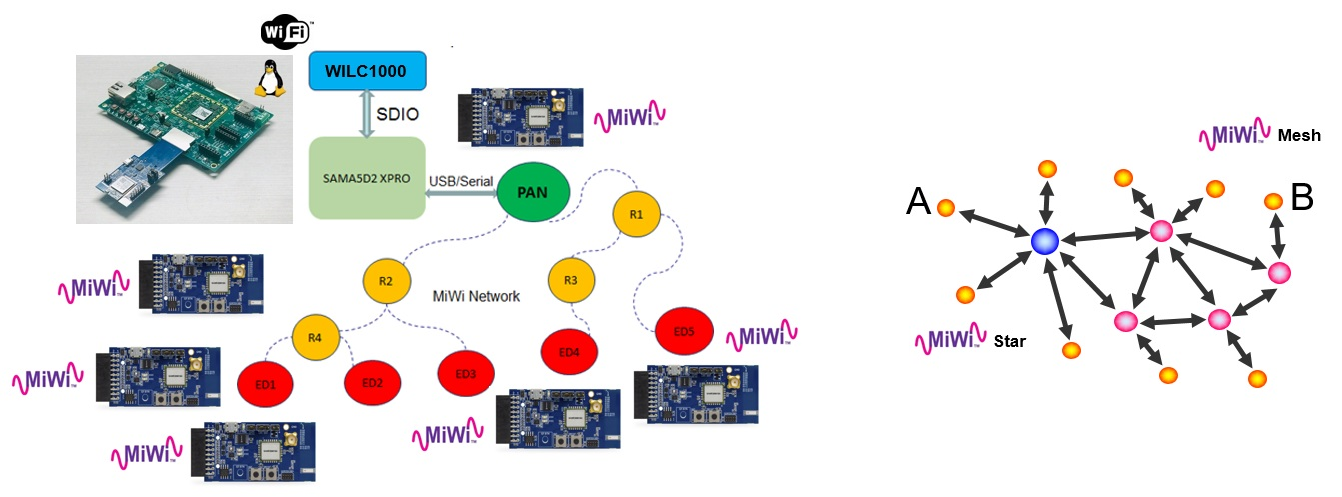
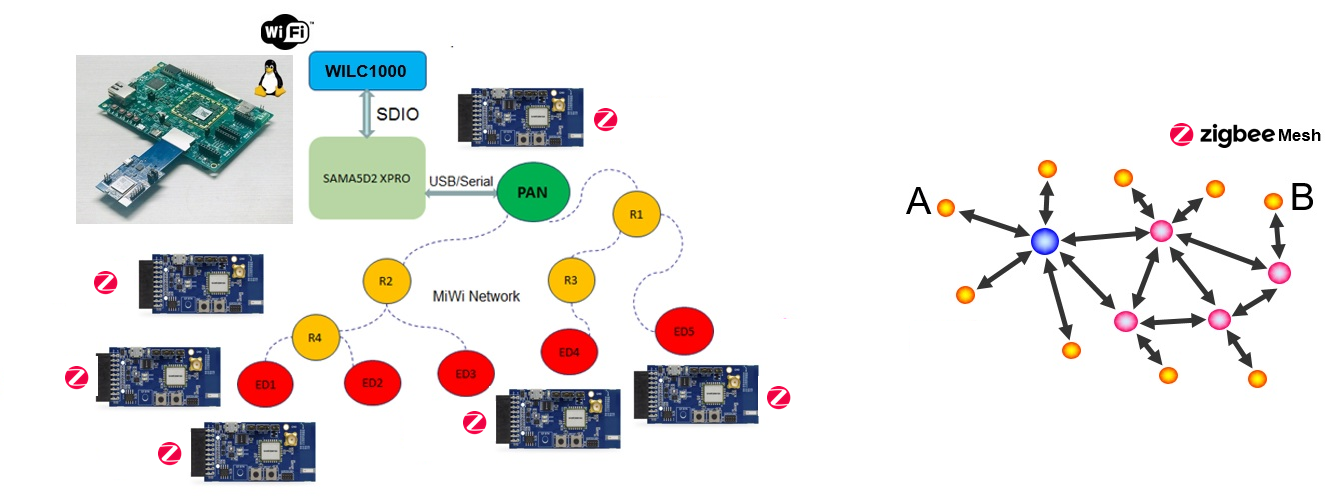
update to aiot_for_industry4.0

diff --git a/README.md b/README.md
@@ -1,4 +1,4 @@
-# iot_solutions_for_industry_4.0
+# aiot_solutions_for_industry_4.0
 <img src="Doc/IoT-Made-Easy-Logo.png" width=100>
 
 > “Wireless Made Fun!" - IoT Solutions for Industry 4.0
@@ -12,14 +12,14 @@
 		1. [Linux](#step2d1)
 		1. [Security](#step2d2)
 		1. [Wi-Fi](#step2d3)
-		1. [Sub GHz Network](#step2d4)
+		1. [Zigbee Network](#step2d4)
 1. [Do It Yourself](#step3)
 	1. [Bill of materials](#step3a)
 	1. [Step by step guide](#step3b)
 	1. [Hardware](#step3c)
 	1. [Software](#step3d)
 		1. [Linux Python Application](#step3d1)
-		1. [MiWi Mesh Application](#step3d2)
+		1. [Zigbee Mesh Application](#step3d2)
 		1. [AWS Web Application](#step3d3)
 
 ## Facts and challenges of Industry 4.0 <a name="step1"></a>
@@ -34,7 +34,7 @@ But here come 2 challenges for developers building Industry 4.0 products:</br>
 <img src="Doc/industry40.png" alt="drawing" width="480"/>
 </br>
 
-## Our solution : "IoT Solutions for Industry 4.0" <a name="step2"></a>
+## Our solution : "AIoT Solutions for Industry 4.0" <a name="step2"></a>
 
 ![](Doc/demo_00.png)</br>
 
@@ -58,13 +58,13 @@ The automation operations described earlier can only be possible if robot is ful
 - Operate safely to say, support an emergency shut down mode (robot could get stopped in no time)</br>
 - Last but not least, monitor its own environment to prevent future issue: predictive maintenance</br>
 
-To ensure real time operations, with high robustness and security, gateway is based on SAMA5 MPU running a Linux Operating system, with robust Wifi Link Controller (ATWINC1000) fully tested for interoperability and CE/FCC/IC certified
+To ensure real time operations, with high robustness and security, gateway is based on SAMA5 MPU running a Linux Operating system, with robust Wifi Link Controller (ATWILC1000) fully tested for interoperability and CE/FCC/IC certified
 </br></br>
 <img src="Doc/som_wilc_linux.png" alt="drawing" width="200"/>
 </br></br>
-Sensors are connected to the gateway thru a SubGHz network, based on SubGHz SAMR30M Module and its associated development kit <a href="https://www.microchip.com/Developmenttools/ProductDetails/AC164159" target="_blank">(see AC164159 - SAMR30M Xplained Pro Evaluation Kit from Microchip)</a></br>
-SAMR30M supports IEEE 802.15.4 PHY based protocols, for instance in particular Microchip's own MiWi Networking protocols for self-healing Point-to-point, Star and Mesh networking (see <a href="https://www.microchip.com/miwi" target="_blank">Microchip MiWi Home page</a>). This is the network we will use here in this demo.</br>
-- MiWi Network set-up in Mesh
+Sensors are connected to the gateway thru a Zigbee network, based on WBZ451 Module and its associated development kit <a href="https://www.microchip.com/en-us/development-tool/EV96B94A" target="_blank">(see PIC32CX-BZ2 and WBZ451 Curiosity Development Board from Microchip)</a></br>
+WBZ451 supports differnt protocol such as IEEE 802.15.4 PHY based protocols, Microchip's own MiWi Networking protocols for self-healing Point-to-point, Star and Mesh networking, Thread and Zigbee (see <a href="https://www.microchip.com/en-us/products/wireless-connectivity/zigbee" target="_blank">Microchip Zigbee Home page</a>). This is the network we will use here in this demo.</br>
+- Zigbee Network with Custom Cluster
 - “PAN Coordinator” connected to “ATSAMA5D27-SOM1-EK1” Development Kit
 - 2 sensors used for data harvesting 
     - Sensors set-up as “End Device”
@@ -73,14 +73,14 @@ SAMR30M supports IEEE 802.15.4 PHY based protocols, for instance in particular M
 <img src="Doc/demo_network.png" alt="drawing" width="560"/></br>
 </br>
 Built for Industry 4.0, this demo is covering 4 use cases:</br>
-- Use case 1 - Standalone mode (OFF Line) : application data pushed to SmartPhone (Wifi Gateway is set in SoftAP mode) while sensor data gets collected via robust SubGHz Mesh network (see MiWi Mesh based on 802.15.4)
+- Use case 1 - Standalone mode (OFF Line) : application data pushed to SmartPhone (Wifi Gateway is set in SoftAP mode) while sensor data gets collected via robust Zigbee® Mesh network (see Zigbee® MCU Products)
 </br><img src="Doc/architecture_use_case_1.png" alt="drawing" width="560"/></br>
 </br><img src="Doc/architecture_use_case_1_dashboard.png" alt="drawing" width="560"/></br>
-- Use case 2 - ON Line mode with AWS IoT : application data is pushed to the Cloud using AWS IoT (Wifi Gateway is set in Station mode). No change for sensor network compared to use case 1 : data gets collected via robust SubGHz Mesh network (see MiWi Mesh based on 802.15.4)
+- Use case 2 - ON Line mode with AWS IoT : application data is pushed to the Cloud using AWS IoT (Wifi Gateway is set in Station mode). No change for sensor network compared to use case 1 : data gets collected via robust Zigbee® Mesh network (see Zigbee® MCU Products)
 </br><img src="Doc/architecture_use_case_2.png" alt="drawing" width="560"/></br>
-- Use case 3 - Concurrent mode (Wifi as SoftAP and Station mode): Wifi Gateway supports and operates simultaneously Station and SoftAP modes, aggregating Use cases 1 and 2. No change for sensor network compared to use cases 1 and 2 : data gets collected via robust SubGHz Mesh network (see MiWi Mesh based on 802.15.4)
+- Use case 3 - Concurrent mode (Wifi as SoftAP and Station mode): Wifi Gateway supports and operates simultaneously Station and SoftAP modes, aggregating Use cases 1 and 2. No change for sensor network compared to use cases 1 and 2 : data gets collected via robust Zigbee® Mesh network (see Zigbee® MCU Products)
 </br><img src="Doc/architecture_use_case_3.png" alt="drawing" width="560"/></br>
-- Use case 4 - ON Line mode with AWS Greengrass: robust connectivity taking full leverage of AWS Greengrass. Here, demonstrator is connected to the Cloud through Ethernet wired connectivity. Sensors now communicate to the Gateway thru Wifi
+- Use case 4 - ON Line mode with AWS Greengrass: robust connectivity taking full leverage of AWS Greengrass. Here, demonstrator is connected to the Cloud through Ethernet wired connectivity. Sensors now communicate to the Gateway thru Wi-Fi®
 </br><img src="Doc/architecture_use_case_4.png" alt="drawing" width="560"/></br>
 
 ### First and foremost, made secure and robust<a name="step2b"></a>
@@ -251,25 +251,12 @@ For the purpose of this demo, linux4wilc Github repo has been used for getting t
 <a href="https://www.microchip.com/mymicrochip/filehandler.aspx?ddocname=en607651" target="_blank">ATWILC3000-SD Evaluation Kit Design Files</a></br>
 <a href="https://www.microchip.com/mymicrochip/filehandler.aspx?ddocname=en606209" target="_blank">ATSAMA5D27 SOM1 Kit1 User Guide</a></br>
 
-#### Sub GHz Network<a name="step2d4"></a>
+#### Zigbee Network<a name="step2d4"></a>
 
-<a href="https://www.microchip.com/wwwproducts/en/ATSAMR30M18" target="_blank">SAMR30M module landing page</a></br> 
+<a href="https://www.microchip.com/wwwproducts/en/ATSAMR30M18" target="_blank">WBZ451PE module landing page</a></br> 
 
-<img src="Doc/samr30m.png" alt="drawing" width="570"/> </br>
+<img src="Doc/WBZ451PE.png" alt="drawing" width="570"/> </br>
 
-<a href="https://www.microchip.com/miwi" target="_blank">MiWi landing page</a></br> 
-MiWi™ Protocol has been developed by Microchip to enable low-cost, commercial and smart home networks.
-The MiWi™ protocol is used in applications such HVAC systems and alarm sensors where reliable self-healing mesh networking is needed. The MiWi protocol supports operation in the IEEE 802.15.4 radio PHY in the sub-GHz and 2.4 GHz ISM bands.</br>
-The MiWi protocol stack offers a significantly smaller footprint relative to the open standard-based Zigbee® compliant protocol stack. This enables operation in microcontrollers with smaller memory/lower cost. A typical end node requires only 20 KB of code space.</br>
-
-* <a href="https://www.microchip.com/mymicrochip/filehandler.aspx?ddocname=en609774" target="_blank">MiWi Quick Start Guide</a></br>
-* <a href="https://www.microchip.com/mymicrochip/filehandler.aspx?ddocname=en609705" target="_blank">MiWi Software Design Guide</a></br>
-* <a href="https://www.microchip.com/mymicrochip/filehandler.aspx?ddocname=en609798" target="_blank">MiWi Version Migration Guide</a></br>
-
-<img src="Doc/miwi_topology.png" alt="drawing" width="320"/> </br>
-
-And visit Microchip Github for a complete MiWi Mesh demo to monitor temperatures:
-<a href="https://github.com/MicrochipTech/Wireless-Sensor-Network-2019" target="_blank">Wireless Sensor Network demo</a></br>
 
 ## Do It Yourself<a name="step3"></a>
 
@@ -318,9 +305,9 @@ This development kit will enable one or several of these functions, depending on
 The ATWILC1000-SD evaluation kit is a hardware platform to evaluate the ATWILC1000-MR110PB module. The ATWILC1000-SD is based on the SmartConnect WILC1000, an IEEE 802.11 b/g/n IoT link controller module. It is the ideal add-On to existing MCU solutions bringing WiFi through UART or SPI/SDIO-to-WiFi interface.</br>
 <img src="Doc/atwilc1000-sd.png" alt="drawing" width="320"/></br>
 
-- <a href="https://www.microchip.com/Developmenttools/ProductDetails/AC164159" target="_blank">3x SAMR30M Xplained Pro (AC164159)</a></br>
-The SAM R30M Xplained Pro is a hardware platform designed to evaluate the SAMR30M18A module. Used here for our sensors network, monitoring key variables of our application (presence, temperature, vibration…). </br>
-In this demo, we will program these boards with true routing Mesh firmware from Microchip (see <a href="https://www.microchip.com/miwi" target="_blank">MiWi landing page</a>) and use on-board <a href="https://www.microchip.com/wwwproducts/en/AT30TSE758A" target="_blank">AT30TSE758A Digital Temperature Sensor</a>. This board could also be used to connect additional sensors such as accelerometers, and in such enables new use cases such as predictive maintenance.</br>
+- <a href="https://www.microchip.com/en-us/development-tool/EV96B94A" target="_blank">3x PIC32CX-BZ2 and WBZ451 Curiosity Development Board (AC164159)</a></br>
+The PIC32CX-BZ2 and WBZ451 Curiosity Development Board, based on the WBZ451PE module. It comes preconfigured with an out-of-the-box multi-protocol demo application and features a temperature sensor, a current measurement header, an RGB LED and a MikroElectronika mikroBUSTM socket to attach a plethora of sensors and add-on boards.  Used here for our sensors network, monitoring key variables of our application (presence, temperature, vibration…). </br>
+In this demo, we will program these boards with true zigbee firmware from Microchip (see <a href="https://www.microchip.com/en-us/products/wireless-connectivity/zigbee" target="_blank">Zigbee landing page</a>) and use on-board <a href="https://www.microchip.com/wwwproducts/en/AT30TSE758A" target="_blank">AT30TSE758A Digital Temperature Sensor</a>. This board could also be used to connect additional sensors such as accelerometers, and in such enables new use cases such as predictive maintenance.</br>
 <img src="Doc/samr30mxpro.png" alt="drawing" width="480"/></br>
 
 - <a href="https://www.amazon.fr/dp/B079QY57LN/ref=dp_prsubs_1" target="_blank">1x Emergency Button</a></br>
